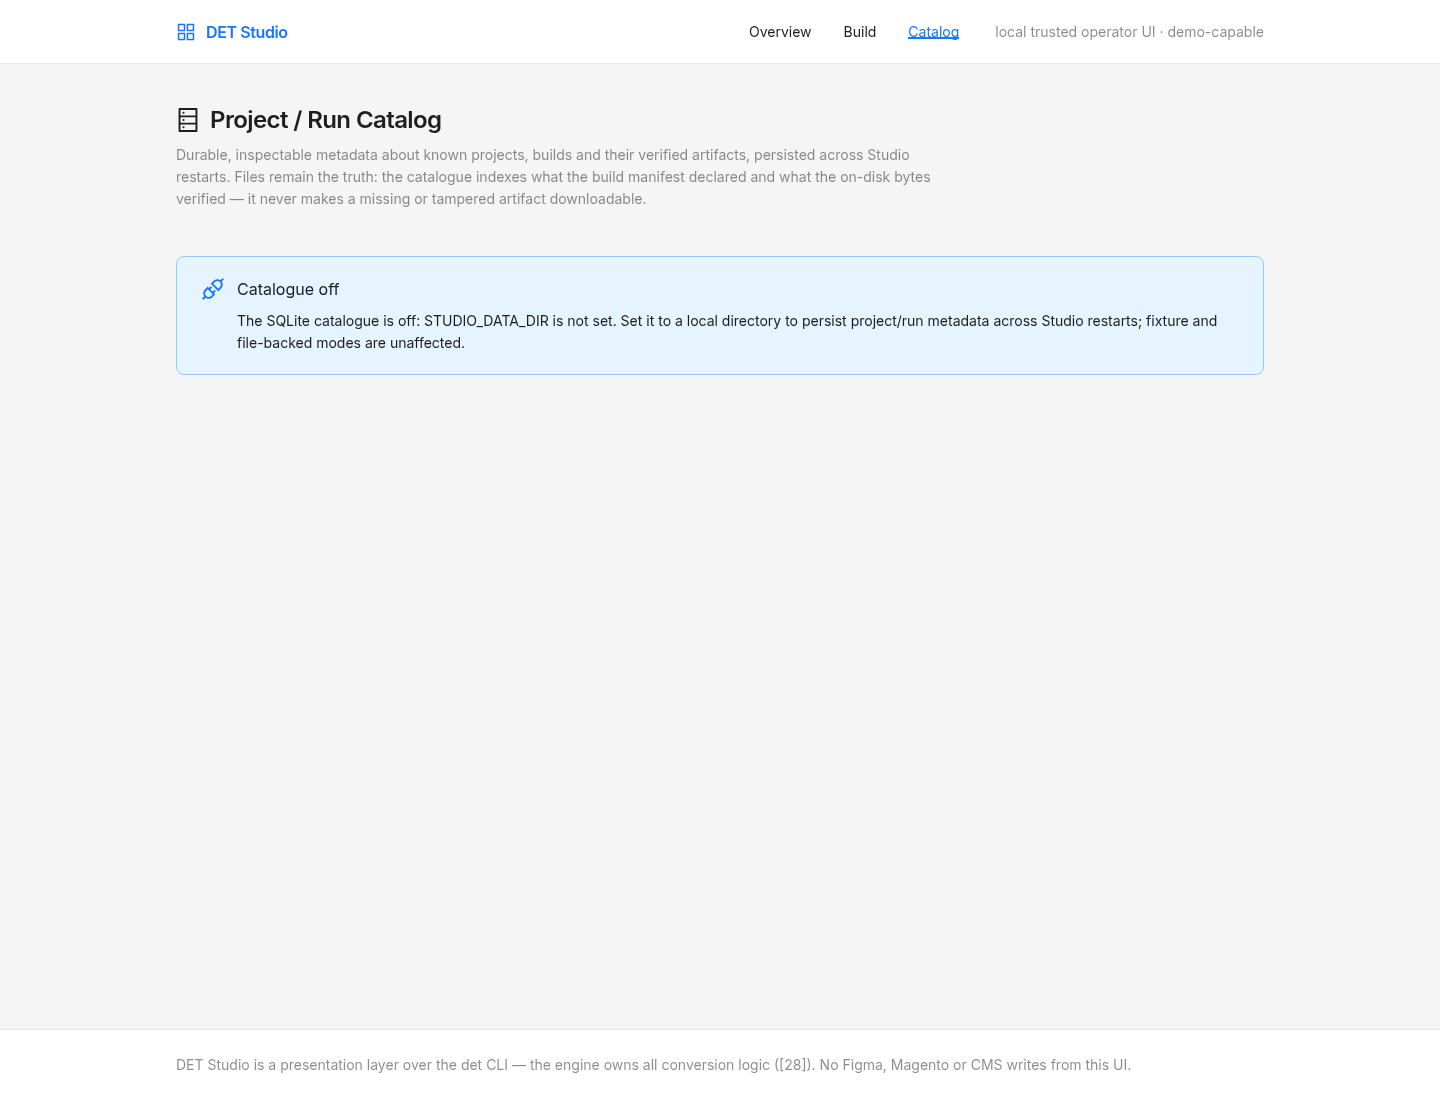
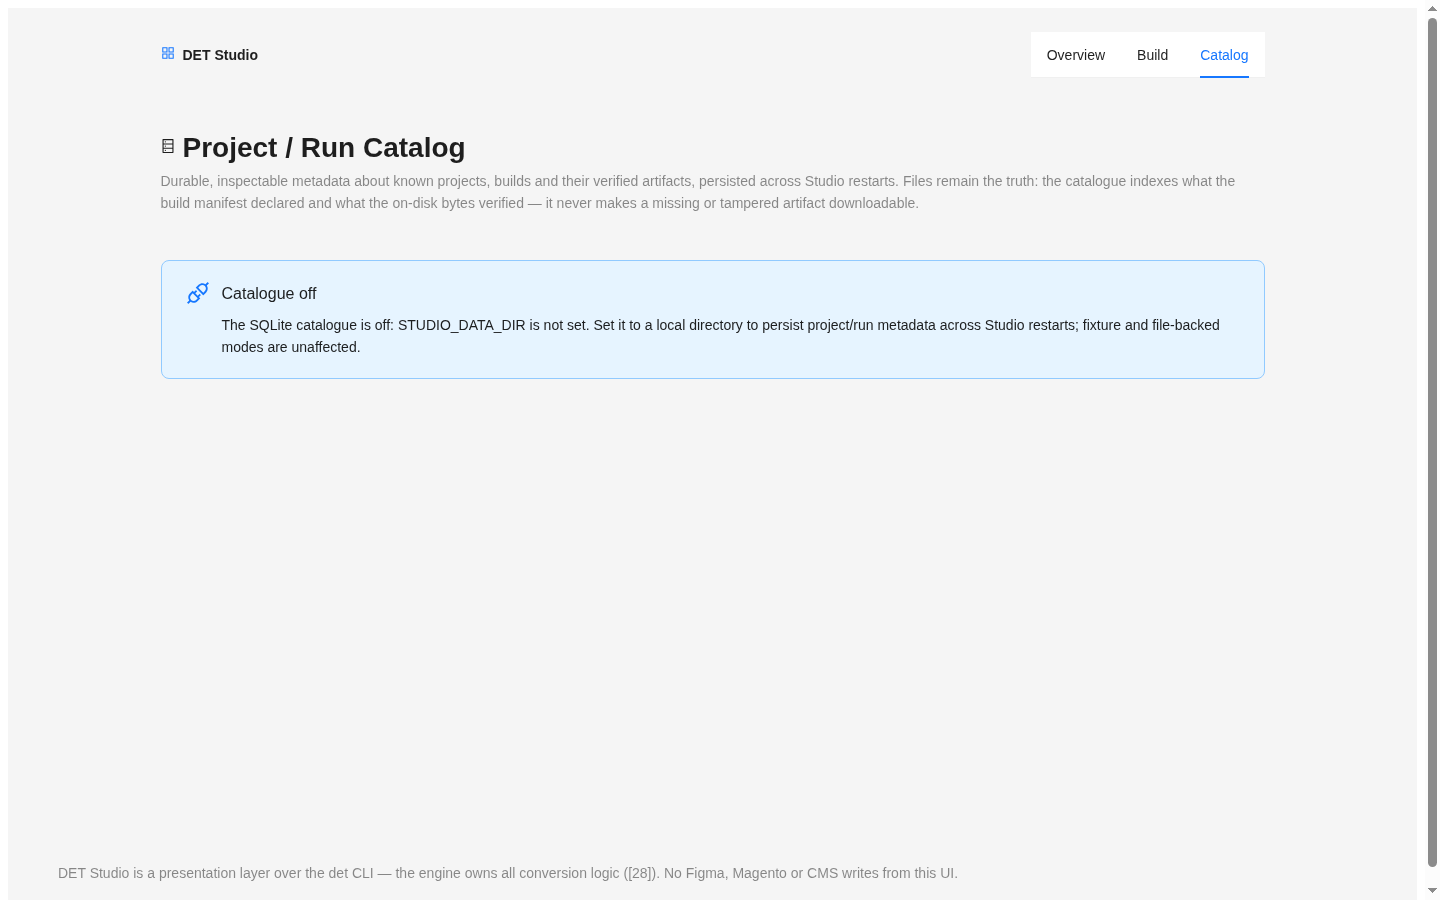
[61] C61-5 — correction evidence: 61-* screenshots re-captured on stock-antd light; DOM evidence rewritten (153-byte CSS, zero Tailwind/theme/44px, Typography.Link anchors); receipt §8 correction round appended with gates (studio 225/225, root 195/195, CI contracts+studio pass at be3a2fd) + fresh op

diff --git a/docs/converter/RECEIPT-ISSUE61-ANTD-LIGHT.md b/docs/converter/RECEIPT-ISSUE61-ANTD-LIGHT.md
@@ -18,7 +18,7 @@
 |---|---|---|
 | dependencies | `class-variance-authority`, `cn`, `lucide-react`, `next`, `radix-ui`, `react`, `react-dom`, `zod` | `@ant-design/icons 6.3.4`, `@ant-design/nextjs-registry 1.3.0`, `antd 6.7.0`, `next`, `react`, `react-dom`, `zod` |
 | devDependencies | … `shadcn`, `tailwindcss`, `tw-animate-css` … | … `tailwindcss` … (no `shadcn`, no `tw-animate-css`) |
-| Tailwind | kept | **kept — layout/typography utilities only** (evidence-based: 306/321 className attributes used utilities across 21 files; removing it would have doubled the diff without being required; the Magento/Hyvä adapter + Preview Theme Tailwind contract is separate and untouched) |
+| Tailwind | kept | **kept — layout/typography utilities only** (evidence-based: 306/321 className attributes used utilities across 21 files; removing it would have doubled the diff without being required; the Magento/Hyvä adapter + Preview Theme Tailwind contract is separate and untouched) *(superseded by §8: Tailwind fully removed in the correction round)* |
 
 `package-lock.json` remains the ONE root lockfile ([60] invariant). `components.json` deleted.
 
@@ -53,11 +53,46 @@ Single-root flow ([58] runbook): `npm run start` from the repo root (port 3100; 
 ## 6. Known observations (honest, non-blocking)
 
 a. antd's own injected library CSS contains internal `.ant-menu-dark` variant rules (part of every antd stylesheet; unused here). Studio source has zero dark tokens/classes — the acceptance target is Studio source, and it is clean.
-b. antd derives `Layout.Header` height from tokens (`controlHeight*2` → 88px at 44); the shell pins a 64px enterprise header with 44px menu items — a one-line change if the Coordinator prefers the taller token-derived header.
+b. *(superseded by §8 — 44px forcing removed entirely)* antd derives `Layout.Header` height from tokens (`controlHeight*2` → 88px at 44); the shell pins a 64px enterprise header with 44px menu items — a one-line change if the Coordinator prefers the taller token-derived header.
 c. The `Suspense` boundary (prerender remedy) means the streamed content reveals after hydration; on localhost this is sub-second. Static prerender of `/_not-found` stores the `fallback={null}` shell.
 d. Copy-audit during migration: 131 curated user-facing strings checked rendered-form — 0 missing. Comments in a few new view files record that copy was carried over verbatim from the previous markup (provenance comments, kept intentionally).
-e. Tailwind core typography utilities (`text-*`, `font-mono`, `truncate`, …) remain in feature code by design (layout/typography utilities, no shadcn tokens — grep-verified zero token-utility usage outside the deleted primitives).
+e. *(superseded by §8 — Tailwind removed entirely, so no utilities remain)* Tailwind core typography utilities (`text-*`, `font-mono`, `truncate`, …) remain in feature code by design (layout/typography utilities, no shadcn tokens — grep-verified zero token-utility usage outside the deleted primitives).
 
 ## 7. Boundaries honored
 
 No Figma reads/writes; no Magento CMS/Admin/DB/store/theme writes; no Hyvä source copying; no engine/schema/CLI contract changes; `kb-ui-component.schema.json`'s `"tailwind-v4"` enum (adapter data) untouched; Preview Theme untouched; receipts #52/#56/#58/#60 and `DET-STUDIO-PARALLEL-WORKERS.md` preserved as history. Parallel-work contract: 4 read-only audit workers → foundation by the integrator → 3 disjoint-path implementation workers (shell / routes / modules+tests) + 1 docs worker → single integrator ran all gates and the E2E. **STOP here for Coordinator independent review — no self-merge, no new issue.**
+
+---
+
+## 8. Correction round (C61-4 `be3a2fd`) — Coordinator CORRECTION_REQUIRED on PR #64
+
+The Coordinator review retracted the older "restrained palette / 44px controls" text and clarified the Owner direction to **ANT DESIGN DEFAULT ONLY**: an experienced Ant Design user must recognize the Studio as stock AntD Light, not an AntD component set reskinned by DET. Same PR #64, same workspace. 4 parallel workers (foundation-strip / routes / modules / docs) → single integrator (this receipt).
+
+### What changed vs §1–§6
+
+1. **No theme, no tokens.** `STUDIO_ANTD_THEME`, `ConfigProvider`, every `ThemeConfig` token override and ALL 44px control-height/item-height forcing are deleted. `StudioProviders` is now exactly `antd <App>` around children (keeps message context, no styling). The 44px doctrine from the original issue text is **retracted by the Owner**; antd default sizes are the standard.
+2. **Tailwind fully removed from Studio** (the Coordinator's stated preference): `tailwindcss`, `@tailwindcss/turbopack`, `tw-animate-css`, `shadcn` gone from `apps/studio/package.json` and the turbopack CSS loader gone from `next.config.ts`; root lockfile updated. Magento/Hyvä adapter and Preview Theme Tailwind remain untouched (boundary preserved).
+3. **globals.css** reduced to `:root { color-scheme: light }` + the single documented `.studio-content` geometry exception (centered max-width column — antd has no such primitive). No fonts, no colors, no dark rules. The served CSS bundle is **153 bytes total**; zero Tailwind/`tw-`/44px/`mapping-row`/`#001529`/font-family hits.
+4. **Stock primitives only.** Every bespoke-styled element replaced: shell = `Layout` + horizontal `Menu` (`items` from `studioNavItems`, labels are next/link — Menu styles its own items, the standard antd+Next pattern) + `Grid.useBreakpoint` for the tagline; headings/cards/tables/tags/alerts/forms/descriptions/lists are stock antd; built-in Tag color presets only (`success`/`gold`/`error`/`processing`/`blue`/`default`); mono text = `Typography.Text code`; content links = `Typography.Link` (bare browser-blue anchors eliminated; deep links and MPA navigation unchanged); `components/ui/*` and the `cn` shim deleted. Remaining inline styles are documented layout-only (`margin: 0` on aria-labelled headings, capped-height scroll `<pre>` log tails, `width: 100%` on two Selects, shell `minHeight: '100dvh'`).
+5. **Truthfulness contract preserved.** Single `<p role="alert">` error pattern kept (the NOT-CONFIGURED box stays a plain div on purpose: antd `Alert` hard-codes `role="alert"` and would double the live region); `mapping-row` + `data-needs-review` exact test strings kept; PREVIEW_UNAVAILABLE verbatim; 409 and download-verification flows untouched.
+
+### Gates (correction round, this workspace)
+
+| Gate | Command | Result |
+|---|---|---|
+| Root contracts | `npm test` | **195/195 pass** (engine untouched) |
+| Studio unit | `cd apps/studio && npx vitest run` | **225/225** (provider tests now 3 after the rewrite: no theme export/`STUDIO_ANTD_THEME`, children pass through, `App.useApp()` context probe; count 226→225 explained) |
+| Studio typecheck / lint / build | `npm run typecheck` · `npm run lint` · `npm run build` | all pass (build emits the same route table; 3 pre-existing Turbopack fs-tracing warnings in `build-catalog.ts`, untouched by this round) |
+| CI | `.github/workflows/validate.yml` `contracts` + `studio` at exact head `be3a2fd` | **pass** (runs 42991769168 push + 42991777085 pull_request; contracts 1m25s/1m28s, studio 2m25s/2m18s) |
+
+Honesty note: one full-suite run had `src/server/build-runner.test.ts` "runs the accepted example build" fail under parallel load; it passed in isolation (12/12) and on the immediate full rerun (225/225) — same timing-sensitive real-CLI flake class already recorded in §3(a), unrelated to UI.
+
+### Operator E2E (correction round, production server port 3100)
+
[1 lines of base64/hex data omitted]
+
+### Visual + DOM evidence (correction round, same filenames — git history keeps the pre-correction versions)
+
+`61-overview-desktop/narrow`, `61-build-desktop/narrow`, `61-catalog-desktop/narrow`, `61-run-detail-desktop/narrow` (run `build-1794387796247`), `61-run-not-found-desktop` re-captured at `be3a2fd`; `61-light-dom-evidence.txt` rewritten with the stock-antd checks: `<html lang="en">` with NO classes; 153-byte custom CSS (color-scheme + one geometry class); 0 Tailwind utility tokens in served HTML; no ConfigProvider/theme in source; stock antd class inventory on all routes; Typography.Link anchors.
+
+**STOP here for Coordinator re-review — no self-merge, no new issue, #63 untouched.**
